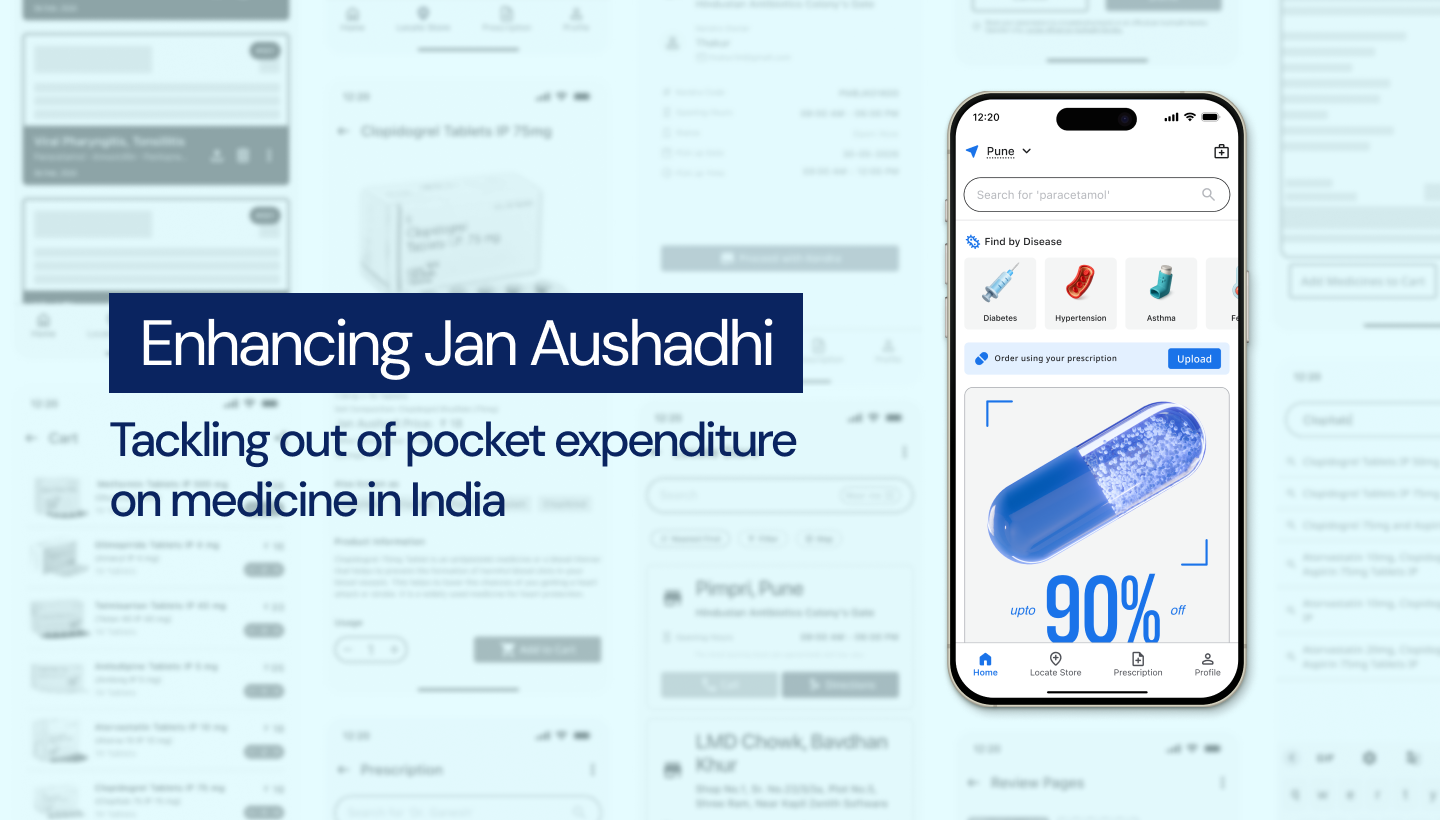
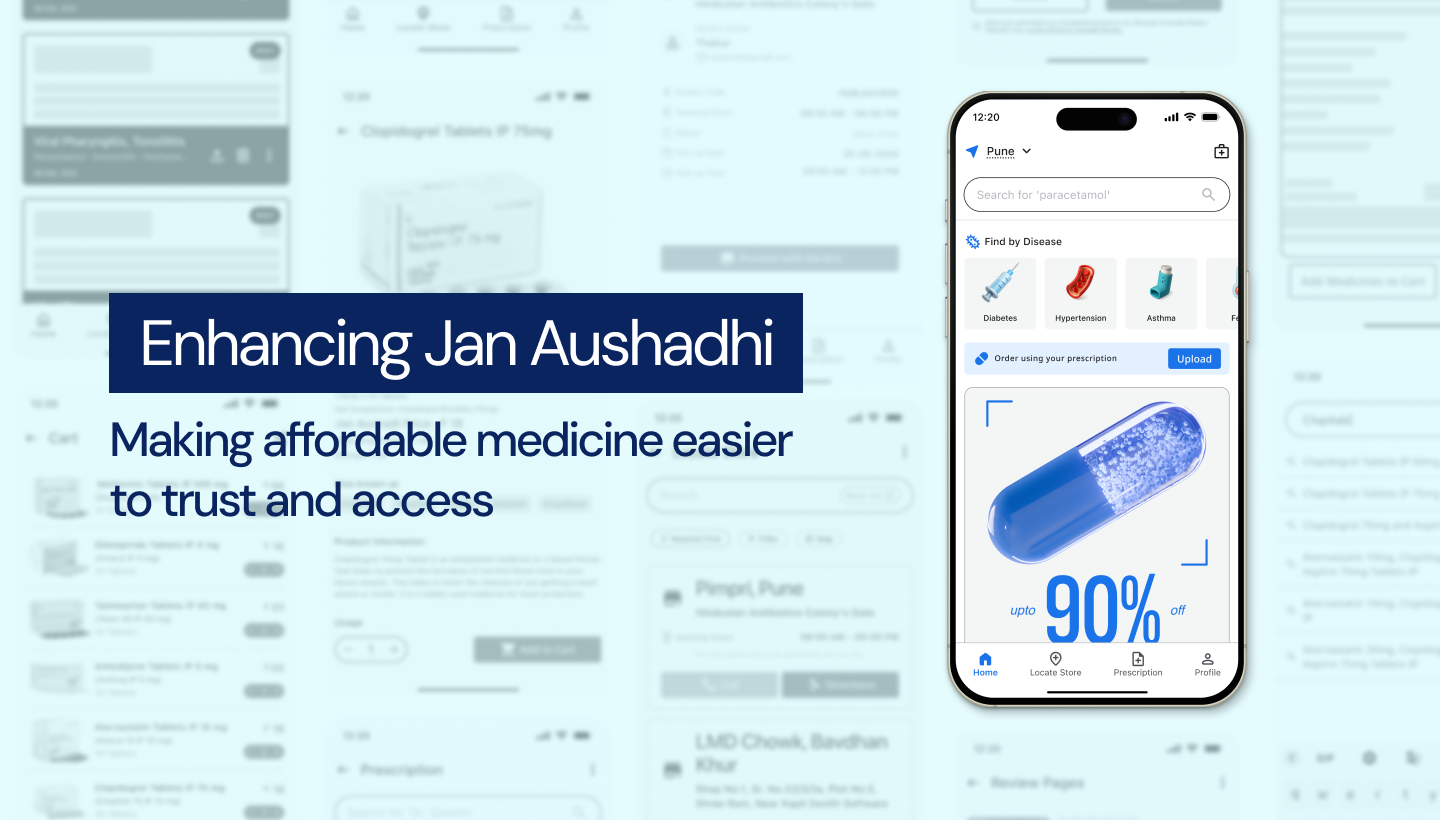
Change sidebar meta label from INDUSTRY to DOMAIN across all case studies

Changed region(s): [[0.0625, 0.5183, 0.5625, 0.6402]]

diff --git a/mas-sales-dashboard.html b/mas-sales-dashboard.html
@@ -2153,7 +2153,7 @@
             <p class="sidebar-meta-value">Product Design Intern</p>
           </div>
           <div class="sidebar-meta-item">
-            <span class="sidebar-meta-label">INDUSTRY</span>
+            <span class="sidebar-meta-label">DOMAIN</span>
             <p class="sidebar-meta-value">Ed Tech</p>
           </div>
           <div class="sidebar-meta-item">

diff --git a/soulka.html b/soulka.html
@@ -1456,7 +1456,7 @@
             <p class="sidebar-meta-value">Founder+Product Designer</p>
           </div>
           <div class="sidebar-meta-item">
-            <span class="sidebar-meta-label">INDUSTRY</span>
+            <span class="sidebar-meta-label">DOMAIN</span>
             <p class="sidebar-meta-value">Food</p>
           </div>
           <div class="sidebar-meta-item">

diff --git a/jan-aushadhi.html b/jan-aushadhi.html
@@ -2917,7 +2917,7 @@
             <p class="sidebar-meta-value">Product Designer</p>
           </div>
           <div class="sidebar-meta-item">
-            <span class="sidebar-meta-label">INDUSTRY</span>
+            <span class="sidebar-meta-label">DOMAIN</span>
             <p class="sidebar-meta-value">Healthcare</p>
           </div>
           <div class="sidebar-meta-item">
